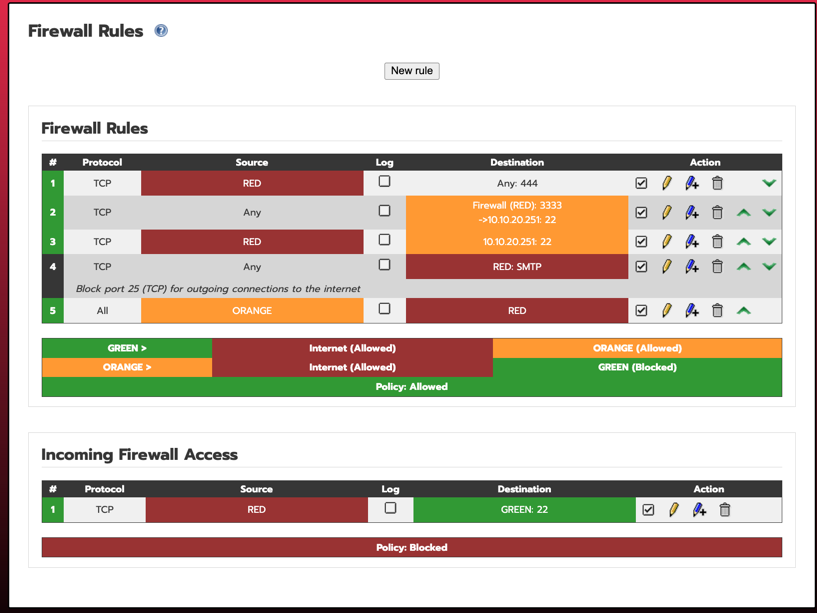
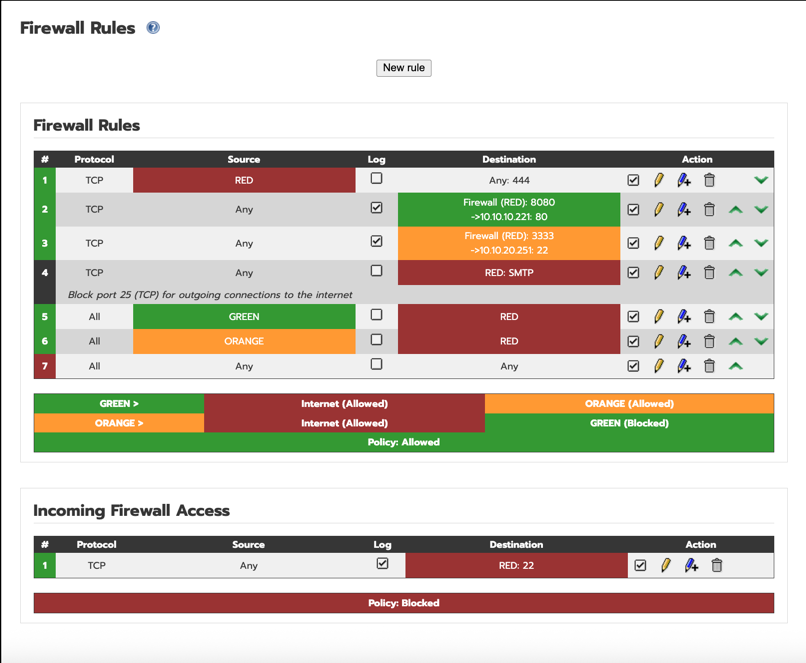
infra-4: ext-fw 수정 - dmz 외부, fw 외부 라우팅 설정 추가 - dmz_lb 라우팅 설정 추가

diff --git a/fw-dmz-fw-sz-study/vms/ext-fw1/4.관리자웹/방화벽 설정/README.md b/fw-dmz-fw-sz-study/vms/ext-fw1/4.관리자웹/방화벽 설정/README.md
@@ -9,9 +9,9 @@
     ![SSH_FORWADING](ext_fw1_dmz_bastion_ssh.png)
 
   - 웹 (외부 - NAT)
-    ![관리자 웹](web.png)
-  - dmz outbound (dmz - 외부)
-    ![관리자 웹](dmz_external.png)
+    ![관리자 웹](fw_web.png)
+  - dmz outbound ( 외부)
+    ![관리자 웹](external.png)
   - 목록
     ![방화벽 목록](firewall_rules.png)
   - 재기동
